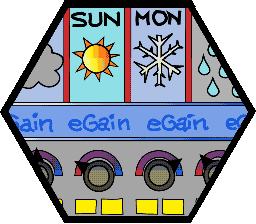
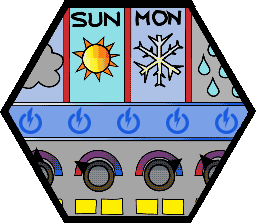
Updates and Fixes
- Checked tooltips, made some fixes
- Timer stopped on pause screen
- Briefings now only have back button
- Removed eGain
(maybe some others updates I didn't record)

Changed region(s): [[0.25, 0.4688, 0.9688, 0.625], [0.0312, 0.4688, 0.2188, 0.625]]

diff --git a/Assets/Scripts/Database Scripts/DisplayOnceSystem.js b/Assets/Scripts/Database Scripts/DisplayOnceSystem.js
@@ -55,6 +55,28 @@ public function GetKeyString(index:int, isATutorialPointer:boolean):String
 	return name + isATutorialPointer + index;
 }
 
+// Creates the string for the asset in order to store it.
+// Uses the level name, whether it is a pointer (or a slide), and it's index within the array
+public function GetKeyString(index:int, isATutorialPointer:boolean, isOnGUIScreen:boolean):String
+{
+	var name : String = "";
+	
+	if(Application.loadedLevelName == "LoadingScreen")
+	{
+		if(PlayerPrefs.HasKey(Strings.NextLevel))
+			name = PlayerPrefs.GetString(Strings.NextLevel);
+	}
+	
+	if(name == "")
+	{
+		name = Application.loadedLevelName;
+	}
+	
+	//Debug.Log(name + isATutorialPointer + index);
+	
+	return name + isATutorialPointer + index + isOnGUIScreen;
+}
+
 // Returns true if the asset has already been displayed (which means the stored
 // value will be 1. Returns false if it is displaying for the first time.
 public function WasAlreadyDisplayed(index:int, isATutorialPointer:boolean):boolean
@@ -106,6 +128,36 @@ public function HasDisplayed(index:int, isATutorialPointer:boolean)
 		PlayerPrefs.SetInt(name,1);
 	}
 }
+
+//**************
+// Returns true if the asset has already been displayed (which means the stored
+// value will be 1. Returns false if it is displaying for the first time.
+public function WasAlreadyDisplayed(index:int, isATutorialPointer:boolean, isOnGUIScreen:boolean):boolean
+{
+	if(!disableThisSystem)
+	{
+		var name:String = GetKeyString(index, isATutorialPointer, isOnGUIScreen);
+		
+		if(PlayerPrefs.HasKey(name))
+			if(PlayerPrefs.GetInt(name) == 1)
+				return true;
+			else
+				return false;
+	}
+	else
+		return false;
+}
+// This function is the same as the above, to be used if the
+// key string is not known.
+public function HasDisplayed(index:int, isATutorialPointer:boolean, isOnGUIScreen:boolean)
+{	
+	if(!disableThisSystem)
+	{
+		var name:String = GetKeyString(index, isATutorialPointer, isOnGUIScreen);
+		PlayerPrefs.SetInt(name,1);
+	}
+}
+
 
 
 }

diff --git a/Assets/Scripts/GUI Scripts/GUIControls/PauseMenu.js b/Assets/Scripts/GUI Scripts/GUIControls/PauseMenu.js
@@ -71,6 +71,7 @@ public class PauseMenu extends GUIControl
 	//Buttons/Text Group - to help maintain a buffer on the far right side of the screen
 	private var groupRect:Rect;
 	
+	private var intelSystem:IntelSystem;
 	
 	public function Start()
 	{
@@ -113,10 +114,14 @@ public class PauseMenu extends GUIControl
 		levelName = PlayerPrefs.GetString(Strings.CurrentLevel, Application.loadedLevelName);
 		
 		backgroundMusic = SoundManager.Instance().backgroundSounds.pauseMenuMusic;
+		
+		intelSystem = GameObject.Find("Database").GetComponent(IntelSystem);
+		intelSystem.isPaused = true;
 	}
 	
 	public function Render()
 	{
+		intelSystem.isPaused = true;
 		GUI.depth = 0;
 			// Drawing background textures:
 		GUI.skin = pauseScreenSkin;
@@ -140,6 +145,7 @@ public class PauseMenu extends GUIControl
 		setButtonTexture(backButton, backButtonPressed);
 		if(GUI.Button(backButtonRect, ""))
 		{
+			intelSystem.isPaused = false;
 			currentResponse.type = EventTypes.MAIN;
 			PlayButtonPress();
 		}
@@ -148,23 +154,27 @@ public class PauseMenu extends GUIControl
 		if(Input.GetKeyUp(KeyCode.Escape))
 		{
 			currentResponse.type = EventTypes.MAIN;
+			intelSystem.isPaused = false;
 			PlayButtonPress();
 		}
 		
 		setButtonTexture(restartButton, restartButtonPressed);
 		if(GUI.Button(restartButtonRect, ""))
 		{
+			intelSystem.isPaused = false;
 			currentResponse.type = EventTypes.RESTART;
 		}
 		setButtonTexture(dashboardButton, dashboardButtonPressed);
 		if(GUI.Button(dashboardButtonRect, ""))
 		{
+			intelSystem.isPaused = false;
 			currentResponse.type = EventTypes.LEVELSELECT;
 			PlayButtonPress();
 		}
 		setButtonTexture(mainMenuButton, mainMenuButtonPressed);
 		if(GUI.Button(mainMenuButtonRect, ""))
 		{
+			intelSystem.isPaused = false;
 			currentResponse.type = EventTypes.STARTMENU;
 			PlayButtonPress();
 		}

diff --git a/Assets/Scripts/GUI Scripts/InspectionSystem/InspectionDisplay.js b/Assets/Scripts/GUI Scripts/InspectionSystem/InspectionDisplay.js
@@ -317,8 +317,12 @@ private function RenderSingle()
 {
 	GUI.Box(dispRect, dispContent);
 	if (componentSelected && GUI.Button(nextRect, String.Empty))//GUI.Button(dispRect, dispContent))
-	{
-		dOS.HasDisplayed(currentToolTipIndex, false);
+	{	
+		if(notInGame)
+			dOS.HasDisplayed(currentToolTipIndex, false, true);
+		else
+			dOS.HasDisplayed(currentToolTipIndex, false, false);
+		
 		currentToolTipIndex++;
 		NextTooltip();
 	}
@@ -330,7 +334,11 @@ private function RenderBoth()
 	GUI.Label(dispBotRect, currentTooltip.text);
 	if (componentSelected && GUI.Button(nextRect, String.Empty))//(GUI.Button(dispTopRect, currentTooltip.pic) || GUI.Button(dispBotRect, currentTooltip.text)))
 	{
-		dOS.HasDisplayed(currentToolTipIndex, false);
+		if(notInGame)
+			dOS.HasDisplayed(currentToolTipIndex, false, true);
+		else
+			dOS.HasDisplayed(currentToolTipIndex, false, false);
+			
 		currentToolTipIndex++;
 		NextTooltip();
 	}
@@ -397,7 +405,9 @@ private function CheckTriggerToDisplay()
 		return;
 	for(currentTriggerIndex = 0;currentTriggerIndex < turnTriggers.length; currentTriggerIndex++)
 	{
-		if(dOS.WasAlreadyDisplayed(currentToolTipIndex, false))
+		if(!notInGame && dOS.WasAlreadyDisplayed(currentToolTipIndex, false, false))
+			currentToolTipIndex++;
+		else if(notInGame && dOS.WasAlreadyDisplayed(currentToolTipIndex, false, true))
 			currentToolTipIndex++;
 		else
 			Activate(turnTriggers[currentTriggerIndex].tooltip, null);

diff --git a/Assets/Scripts/Database Scripts/IntelSystem.js b/Assets/Scripts/Database Scripts/IntelSystem.js
@@ -53,6 +53,7 @@ private var timeLeft : int = 60;
 public var useTimer : boolean = true;
 
 public var toolTipOnScreen : boolean = false;
+public var isPaused : boolean = false;
 
 private var dOS:DisplayOnceSystem;
 
@@ -230,7 +231,7 @@ public function DecrementTimer()
 {
 	while (timeLeft > 0 && !victory)
 	{
-		if(!toolTipOnScreen)
+		if(!toolTipOnScreen && !isPaused)
 			timeLeft--;
 		yield WaitForSeconds(1.0);
 	}
@@ -594,7 +595,7 @@ public function triggerWin()
 //**
 // Added only for the purpose of autmoatically allowing a win
 function Update()
-{
+{		
 	if(Input.GetKeyDown(KeyCode.W))
 		victory = true;
 }

diff --git a/Assets/Scripts/GUI Scripts/GUIControls/NarrativeUI.js b/Assets/Scripts/GUI Scripts/GUIControls/NarrativeUI.js
@@ -363,11 +363,14 @@ public class NarrativeUI extends GUIControl
 					}
 				}
 				
-				if (GUI.Button(replay, replayButton))
+				if (GUI.Button(back, backButton))
 				{	
-					lastLetter = 0;
-					currentSlide = 0;		
-					StartCoroutine(UpdateText());
+					if(currentSlide > 0)
+					{
+						lastLetter = 0;
+						currentSlide--;
+						StartCoroutine(UpdateText());
+					}			
 				}
 			}
 			
